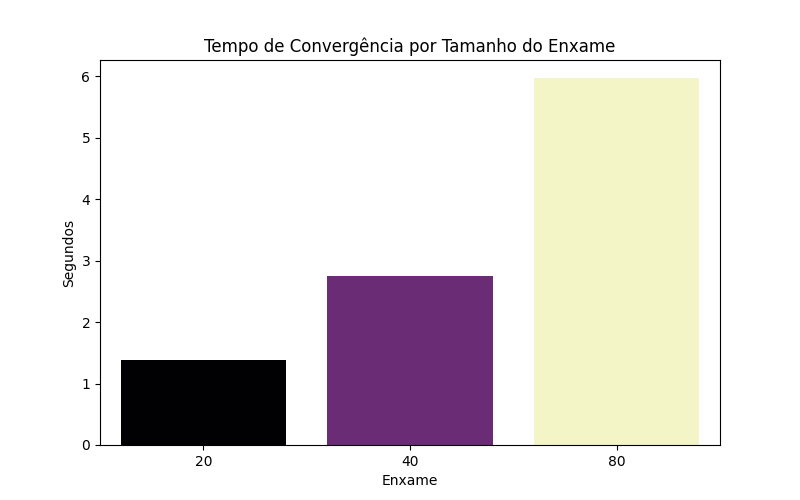
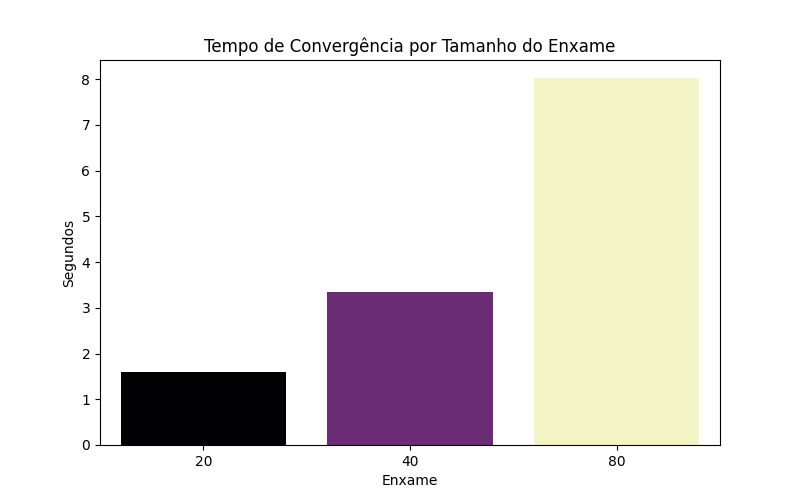
update

diff --git a/src/main.py b/src/main.py
@@ -9,7 +9,7 @@ from preprocessamento import carregar_e_processar_dados
 from pso import executar_pso
 from fitness import decodificar_particula, calcular_perfil_usuario, MAPA_GRUPOS
 
-USUARIO_ALVO = "User 55"
+USUARIO_ALVO = "User 1"
 TAMANHO_ROTEIRO = 5       
 LIMIAR_GOSTO = 0.5        
 NUM_EXECUCOES = 20        
@@ -21,8 +21,8 @@ MAPA_NOMES = {
     'Category 3': 'Praias (Natureza)', 'Category 4': 'Parques (Natureza)', 
     'Category 5': 'Teatros (Entretenimento)', 'Category 6': 'Museus (Histórico)',
     'Category 7': 'Shoppings (Entretenimento)', 'Category 8': 'Zoológicos (Natureza)', 
-    'Category 9': 'Restaurantes (Gastronomia)', 'Category 10': 'Pubs/Bares (BemEstar)',
-    'Category 11': 'Serviços Locais', 'Category 12': 'Pizzarias (Gastronomia)',
+    'Category 9': 'Restaurantes (Gastronomia)', 'Category 10': 'Pubs/Bares (Gastronomia)',
+    'Category 11': 'Serviços Locais (BemEstar)', 'Category 12': 'Pizzarias (Gastronomia)',
     'Category 13': 'Hotéis (Estadia)', 'Category 14': 'Sucos (Gastronomia)', 
     'Category 15': 'Galerias Arte (Histórico)', 'Category 16': 'Baladas (BemEstar)', 
     'Category 17': 'Piscinas (BemEstar)', 'Category 18': 'Academias (BemEstar)',
